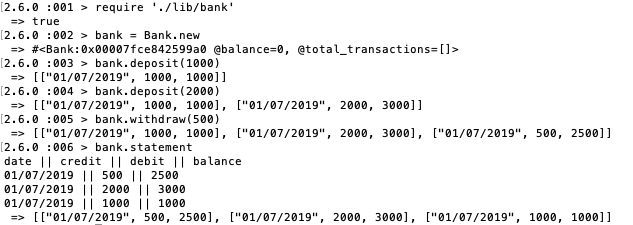
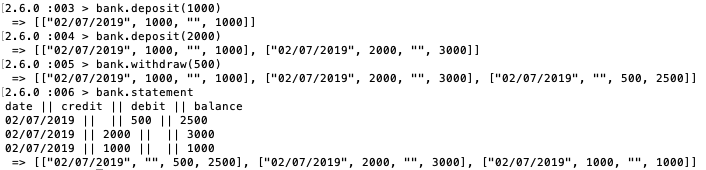
What I would do with more time edit to README

Changed region(s): [[0.0, 0.0, 0.9905, 1.0]]

diff --git a/README.md b/README.md
@@ -8,8 +8,9 @@ The goal of this challenge is to apply the best practises, including clean code 
 
 This programme allows a user to deposit and withdraw an amount from their account and return a bank statement with the details of each transaction. 
 
+![alt text](images/irb_screenshot.png)
+
 ### Technlogies
-----
 
 This programme is written in Ruby and tested with RSpec and Timecop. To ensure high code quality, I used Rubocop as a linter, Simplecov for test coverage and Code Climate for readability.
 
@@ -28,15 +29,12 @@ This programme is written in Ruby and tested with RSpec and Timecop. To ensure h
 - Bundle install
 - Rspec
 ```
-----
-
 
 # My Process
 
-I was able to output the user's statement however I need to work on formatting the table. At the moment, the transactions fall under the credit column instead of the debit if the transaction is a deposit.
+I spent the first hour reading the criteria, setting up the testing environment and starting on the README. I started with writing the simplest tests - depositing and withdrawing - and after they passed, I added in the timestamp. 
 
-![alt text](images/irb_screenshot.png)
-
+I used the gem Timecop to freeze the time according to the criteria but in hindsight I took the criteria too literally. I didn't need to save the dates in my tests to be exactly what was written. I also went back to planning and drew the table out clearly as I realised I had initially missed the differentiation between the Debit and Credit columns. 
 
 Date | Credit | Debit | Balance
  ---- | ------ | ----- | ------
@@ -44,6 +42,9 @@ Date | Credit | Debit | Balance
 13/01/2012 | 2000.00 |  | 3000.00
 10/01/2012 | 1000.00 |   | 1000.00
 
+If I had more time, I would seperate the bank class into at least one other class, if not two, as the code I have at the moment is repetative and a couple of methods in relation to storing the transactions are longer than I would like. I would draw a class diagram to clearly differentiate the methods for effective encapsulation. Instead of having just the bank class, I would add an account and transaction class.  
+
+I will set up a timer for the next challenge and write my goals for each 30 minute time block in the git wiki. After the time is up I will document what I acheived. 
 
 
 ## Specification
